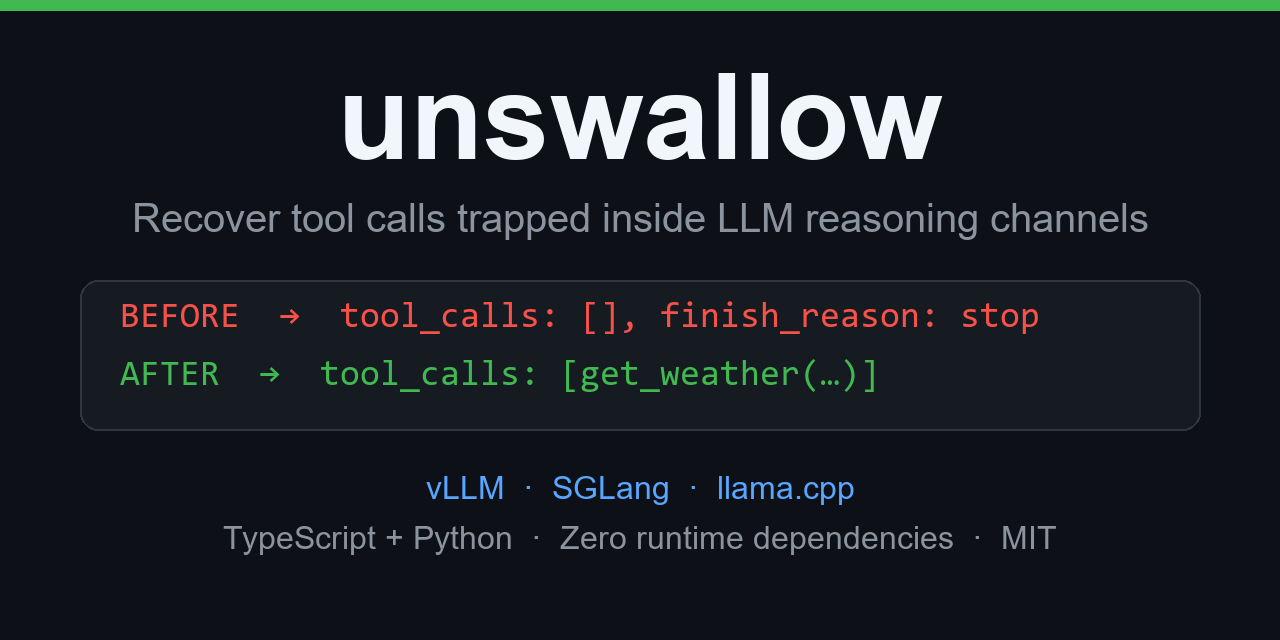
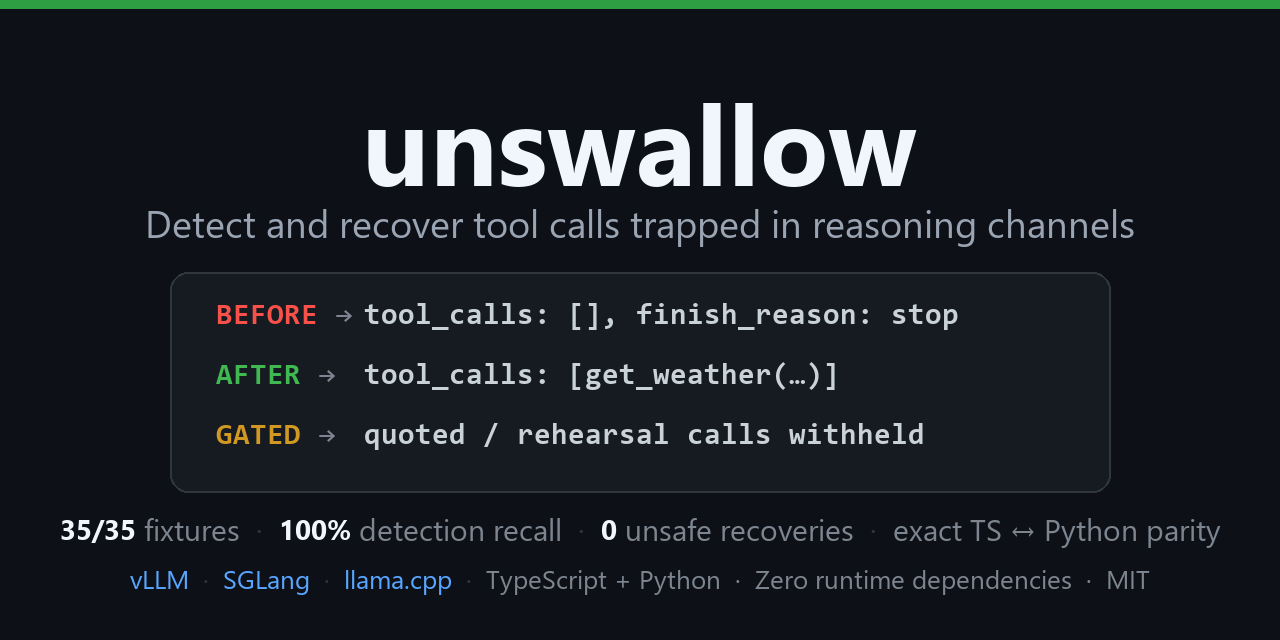
Add social-preview illustration, refresh README hero
- docs/social-preview.png redrawn (1280x640) with the shipped numbers and
  the intent gate; docs/social-preview.py regenerates it (Pillow, UI fonts)
- README: illustration as the hero image, demo GIF moved beside the
  before/after, engines badge added to the badge row
- npm and PyPI package READMEs carry the banner
- CONTRIBUTING: regeneration step documented, stale test counts fixed

diff --git a/docs/social-preview.py b/docs/social-preview.py
@@ -1,0 +1,131 @@
+"""Render docs/social-preview.png — the repository illustration and GitHub
+social-preview image (1280x640, PNG).
+
+Run from the repo root:
+    python docs/social-preview.py
+
+Uses Pillow and the platform UI fonts (Segoe UI / Consolas on Windows; DejaVu
+fallbacks elsewhere). Run it after headline numbers change so the image and
+the README stay in sync.
+"""
+
+from __future__ import annotations
+
+import sys
+from pathlib import Path
+
+from PIL import Image, ImageDraw, ImageFont
+
+WIDTH, HEIGHT = 1280, 640
+OUT = Path(__file__).resolve().parent / "social-preview.png"
+
+BG = "#0d1117"
+CARD = "#161b22"
+CARD_BORDER = "#30363d"
+ACCENT = "#2ea043"
+TITLE = "#f0f6fc"
+PROSE = "#9aa4b2"
+CODE = "#c9d1d9"
+RED = "#f85149"
+GREEN = "#3fb950"
+AMBER = "#d29922"
+BLUE = "#58a6ff"
+MUTED = "#7d8590"
+
+FONT_CANDIDATES = {
+    "bold": ["C:/Windows/Fonts/segoeuib.ttf", "/usr/share/fonts/truetype/dejavu/DejaVuSans-Bold.ttf"],
+    "regular": ["C:/Windows/Fonts/segoeui.ttf", "/usr/share/fonts/truetype/dejavu/DejaVuSans.ttf"],
+    "mono_bold": ["C:/Windows/Fonts/consolab.ttf", "/usr/share/fonts/truetype/dejavu/DejaVuSansMono-Bold.ttf"],
+}
+
+
+def load(kind: str, size: int) -> ImageFont.FreeTypeFont:
+    for candidate in FONT_CANDIDATES[kind]:
+        path = Path(candidate)
+        if path.exists():
+            return ImageFont.truetype(str(path), size)
+    raise SystemExit("no usable font found for {!r}".format(kind))
+
+
+def draw_centered(draw: ImageDraw.ImageDraw, segments, y: int) -> None:
+    width = sum(draw.textlength(text, font=font) for text, font, _ in segments)
+    x = (WIDTH - width) / 2
+    for text, font, color in segments:
+        draw.text((x, y), text, font=font, fill=color, anchor="lm")
+        x += draw.textlength(text, font=font)
+
+
+def main() -> int:
+    image = Image.new("RGB", (WIDTH, HEIGHT), BG)
+    draw = ImageDraw.Draw(image)
+
+    bold_112 = load("bold", 112)
+    regular_38 = load("regular", 38)
+    semibold_28 = load("bold", 28)
+    regular_30 = load("regular", 30)
+    mono_30 = load("mono_bold", 30)
+    regular_26 = load("regular", 26)
+
+    draw.rectangle((0, 0, WIDTH, 8), fill=ACCENT)
+
+    draw.text((WIDTH / 2, 140), "unswallow", font=bold_112, fill=TITLE, anchor="mm")
+    draw.text(
+        (WIDTH / 2, 222),
+        "Detect and recover tool calls trapped in reasoning channels",
+        font=regular_38,
+        fill=PROSE,
+        anchor="mm",
+    )
+
+    draw.rounded_rectangle((170, 272, 1110, 492), radius=18, fill=CARD, outline=CARD_BORDER, width=2)
+
+    rows = [
+        ("BEFORE", RED, "tool_calls: [], finish_reason: stop"),
+        ("AFTER", GREEN, "tool_calls: [get_weather(\u2026)]"),
+        ("GATED", AMBER, "quoted / rehearsal calls withheld"),
+    ]
+    label_column = max(draw.textlength(label, font=mono_30) for label, _, _ in rows) + 46
+    label_x, body_x = 216, 216 + label_column
+    for index, (label, color, body) in enumerate(rows):
+        y = 316 + index * 60
+        draw.text((label_x, y), label, font=mono_30, fill=color, anchor="lm")
+        draw.text((label_x + draw.textlength(label, font=mono_30) + 18, y), "\u2192", font=mono_30, fill=MUTED, anchor="lm")
+        draw.text((body_x, y), body, font=mono_30, fill=CODE, anchor="lm")
+
+    draw_centered(
+        draw,
+        [
+            ("35/35", semibold_28, TITLE),
+            (" fixtures", regular_30, MUTED),
+            ("  \u00b7  ", regular_30, CARD_BORDER),
+            ("100%", semibold_28, TITLE),
+            (" detection recall", regular_30, MUTED),
+            ("  \u00b7  ", regular_30, CARD_BORDER),
+            ("0", semibold_28, TITLE),
+            (" unsafe recoveries", regular_30, MUTED),
+            ("  \u00b7  ", regular_30, CARD_BORDER),
+            ("exact TS \u2194 Python parity", regular_30, MUTED),
+        ],
+        528,
+    )
+    draw_centered(
+        draw,
+        [
+            ("vLLM", regular_26, BLUE),
+            ("  \u00b7  ", regular_26, CARD_BORDER),
+            ("SGLang", regular_26, BLUE),
+            ("  \u00b7  ", regular_26, CARD_BORDER),
+            ("llama.cpp", regular_26, BLUE),
+            ("  \u00b7  ", regular_26, CARD_BORDER),
+            ("TypeScript + Python  \u00b7  Zero runtime dependencies  \u00b7  MIT", regular_26, MUTED),
+        ],
+        578,
+    )
+
+    image.save(OUT, format="PNG", optimize=True)
+    print("wrote {} ({:.1f} KB)".format(OUT, OUT.stat().st_size / 1024))
+    return 0
+
+
+if __name__ == "__main__":
+    sys.exit(main())

diff --git a/README.md b/README.md
@@ -9,6 +9,7 @@
   <img src="https://img.shields.io/pypi/v/unswallow?style=flat-square&color=111111&label=pypi" alt="PyPI">
   <a href="https://github.com/0DukePan/unswallow/actions/workflows/ci.yml"><img src="https://github.com/0DukePan/unswallow/actions/workflows/ci.yml/badge.svg" alt="CI"></a>
   <img src="https://img.shields.io/badge/runtime%20deps-0-111111?style=flat-square" alt="zero runtime dependencies">
+  <img src="https://img.shields.io/badge/works%20with-vLLM%20%C2%B7%20SGLang%20%C2%B7%20llama.cpp-111111?style=flat-square" alt="Works with vLLM, SGLang and llama.cpp">
   <img src="https://img.shields.io/badge/types-TypeScript%20%2B%20Python-111111?style=flat-square" alt="TypeScript and Python">
   <img src="https://img.shields.io/badge/license-MIT-111111?style=flat-square" alt="MIT license">
 </p>
@@ -19,7 +20,7 @@
 </p>
 
 <p align="center">
-  <img src="docs/demo.gif" width="760" alt="unswallow CLI recovering a swallowed tool call">
+  <img src="docs/social-preview.png" width="880" alt="unswallow — detect and recover tool calls trapped in reasoning channels (before: empty tool_calls; after: recovered; gated: quoted or rehearsal calls withheld)">
 </p>
 
 ---
@@ -59,6 +60,10 @@ if (result.recovered && result.recoveredResponse) {
 ```
 
 One call in your response path. The original object is never mutated (recovery returns a deep copy); clean responses pass through untouched with `confidence: 0`.
+
+<p align="center">
+  <img src="docs/demo.gif" width="760" alt="unswallow CLI recovering a swallowed tool call">
+</p>
 
 ## The bug class
 

diff --git a/CONTRIBUTING.md b/CONTRIBUTING.md
@@ -44,8 +44,8 @@ Matrix changes don't require a package release. `npm run matrix:update` polls th
 ```bash
 npm install
 npm run build     # tsc -> packages/unswallow/dist/
-npm test          # 85 tests (semver, core, false-positive guard, streaming, history hygiene, proxy)
-npm run test:python   # 80 tests, stdlib-only (mirrors the TS suite)
+npm test          # 136 tests (semver, core, guards, intent gate, streaming, history hygiene, proxy, CLI, OTel)
+npm run test:python   # 131 tests, stdlib-only (mirrors the TS suite)
 npm run lint      # eslint (TS) — python: python -m ruff check packages/python
 npm run typecheck # tsc --noEmit + mypy
 npm run coverage  # TS coverage report
@@ -56,6 +56,7 @@ npm run bench     # verify hash pins + run the 35-fixture corpus + matrix consis
 npm run bench:perf     # TS latencies/throughput/memory + proxy overhead, write packages/bench/perf/
 npm run bench:python   # Python parity (35 fixtures vs TS, exact confidence + category) + Python perf, write packages/python/bench/
 npm run matrix:update  # poll tracked upstream issue threads (advisory + snapshot) + sync matrix into the Python package
+python docs/social-preview.py  # regenerate the README illustration / GitHub social preview after headline numbers change
 ```
 
 Repo layout (npm workspaces):

diff --git a/packages/unswallow/README.md b/packages/unswallow/README.md
@@ -7,6 +7,8 @@
 
 **Detect and recover tool calls trapped inside a model's reasoning channel.**
 
+![unswallow](https://raw.githubusercontent.com/0DukePan/unswallow/main/docs/social-preview.png)
+
 ![unswallow demo](https://raw.githubusercontent.com/0DukePan/unswallow/main/docs/demo.gif)
 
 **35/35 pinned fixtures · 100% detection recall · 0 unsafe recoveries · 0 runtime dependencies** — measured on a 35-fixture adversarial corpus, rerunnable on your hardware. Full reports: [correctness](https://github.com/0DukePan/unswallow/blob/main/packages/bench/results/results.md) · [safety](https://github.com/0DukePan/unswallow/blob/main/packages/bench/results/fp-results.md) · [performance](https://github.com/0DukePan/unswallow/blob/main/packages/bench/perf/results.md).

diff --git a/packages/python/README.md b/packages/python/README.md
@@ -2,6 +2,8 @@
 
 The 1:1 Python mirror of the `unswallow` TypeScript library: detect and recover tool calls trapped inside a model's reasoning channel — the reasoning-channel swallow bug class across vLLM, SGLang, and llama.cpp.
 
+![unswallow](https://raw.githubusercontent.com/0DukePan/unswallow/main/docs/social-preview.png)
+
 ```bash
 pip install unswallow
 ```
